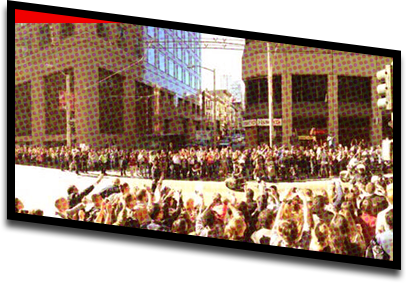
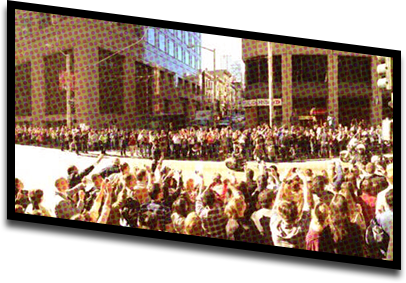
Updated panel and added a fix for panels appearing

diff --git a/public/js/PageBase.js b/public/js/PageBase.js
@@ -139,7 +139,7 @@ function PageBase()
 	{
 		var localTime = Comic.Instance.Timeline + Comic.Instance.Width - this.X - panelStart;
 		var duration = Comic.Instance.Width - this.Width;
-		var interpolator = localTime / Comic.Instance.Width;
+		var interpolator = localTime / (Comic.Instance.Width > 1280 ? 1280 : Comic.Instance.Width);
 		
 		// window width - panel left edge = visible panel amount
 		// [-1,0] = panel appearing on right side
